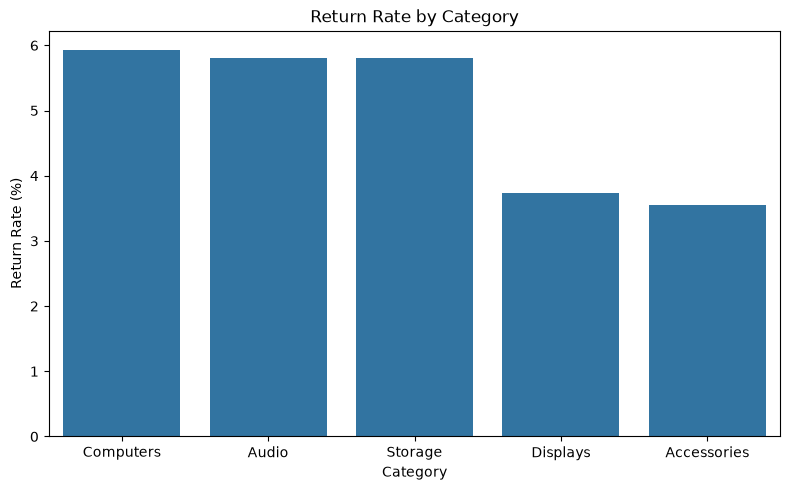
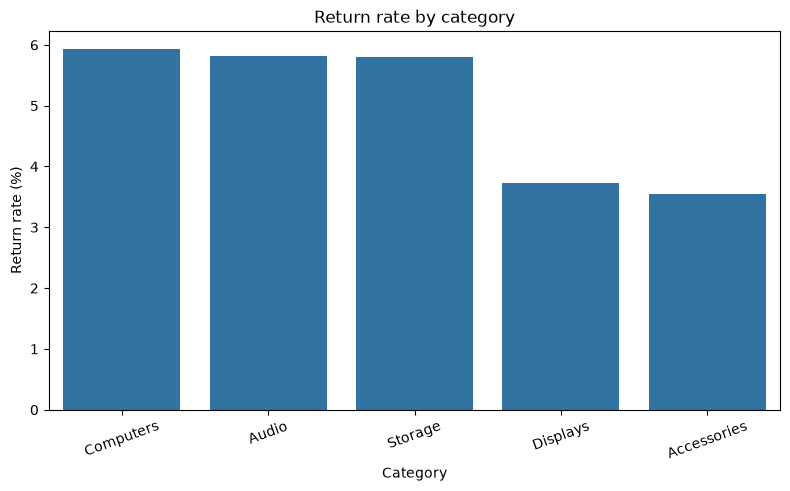
Changed main.py to use newly made functions from rag_llm.py

diff --git a/retail-analytics-rag/main.py b/retail-analytics-rag/main.py
@@ -38,7 +38,9 @@ from visualization import (
 
 from rag_llm import (
     load_policy,
-    split_policy
+    split_policy,
+    add_chunk_metadata,
+    inspect_chunks
 )
 
 
@@ -140,19 +142,13 @@ def main():
         documents
     )
 
-    print(
-        "\nPolicy chunks created:",
-        len(chunks)
+    chunks = add_chunk_metadata(
+        chunks
     )
 
-    print(
-        "\nFirst chunk preview:"
+    inspect_chunks(
+        chunks
     )
-
-    print(
-        chunks[0].page_content[:300]
-    )
-
 
 # RUN PROGRAM
 
